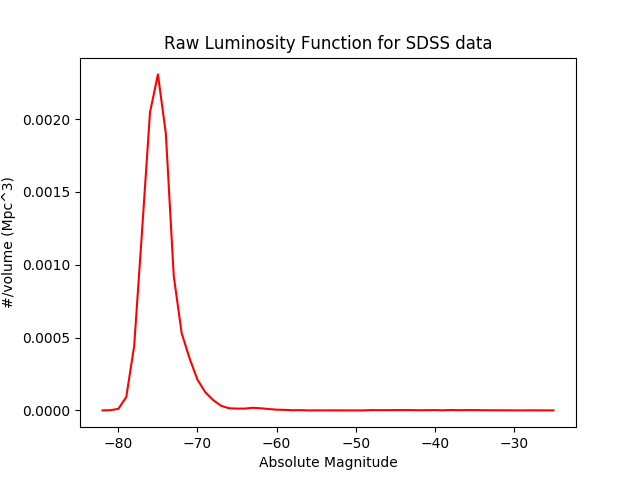
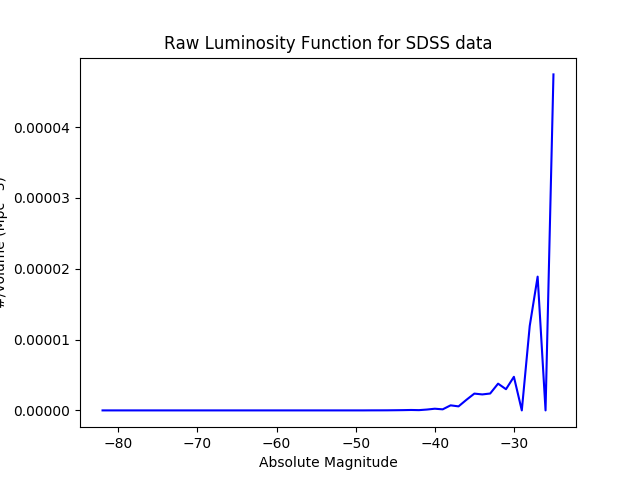
stuff

diff --git a/termproject.py b/termproject.py
@@ -65,7 +65,7 @@ def bar1():
 def redshiftDistance(x):
 	#H0 used is 73.8
 	H0 = 73.8
-	y = [((299792 * z)/73.8) * 1000000 for z in x]
+	y = [((299792 * z)/H0) * 1000000 for z in x]
 	return y
 
 def absMags(x, u):
@@ -84,6 +84,30 @@ def distributeMagnitudes(mags):
 	return magBins
 
 def calcEffectiveVolume():
+	#from range -82 to -24
+	#lim mag is 17.6
+	limMag = 17.6
+	h = .3
+	Omega = 1
+
+	effectiveVols = []
+	Vmaxs = []
+	for y in range(-82, -23):
+		dmax = pow(10, (limMag - y + 5)/5)
+		dmax = dmax / 1000000
+		x = dmax/h
+		effV = Omega * (h**3) * ((.5 * pow(x,2)) + ((x + 1)*math.exp(-1 * x)) - 1)
+		effectiveVols.append(effV)
+
+		vol = math.pi * pow((h / 2), 2) * (dmax / 3)
+		Vmaxs.append(vol)
+	return effectiveVols, Vmaxs
+
+def calcVratios(Veffs, Vmaxs):
+	result = []
+	for i in range(len(Veffs)):
+		result.append(Veffs[i]/Vmaxs[i])
+	return result
 
 
 def rawLum():
@@ -102,10 +126,16 @@ def rawLum():
 
 	#correct malmquist bias
 	#using h=300pc, Omega = 1
-	
+	effectiveVols, Vmaxs = calcEffectiveVolume()
+	Vratios = calcVratios(effectiveVols, Vmaxs)
+	#print(effectiveVols)
+	correctedLumFunc = []
+	for x in range(len(magBins)):
+		correctedLumFunc.append(magBins[x]/Vratios[x])
 
 
-	plt.plot(np.arange(-82, -24, 1), lumFunc, "r")
+	#plt.plot(np.arange(-82, -24, 1), lumFunc, "r")
+	plt.plot(np.arange(-82, -24, 1), correctedLumFunc, "b")
 	plt.xlabel("Absolute Magnitude")
 	plt.ylabel("#/volume (Mpc^3)")
 	plt.title("Raw Luminosity Function for SDSS data")
